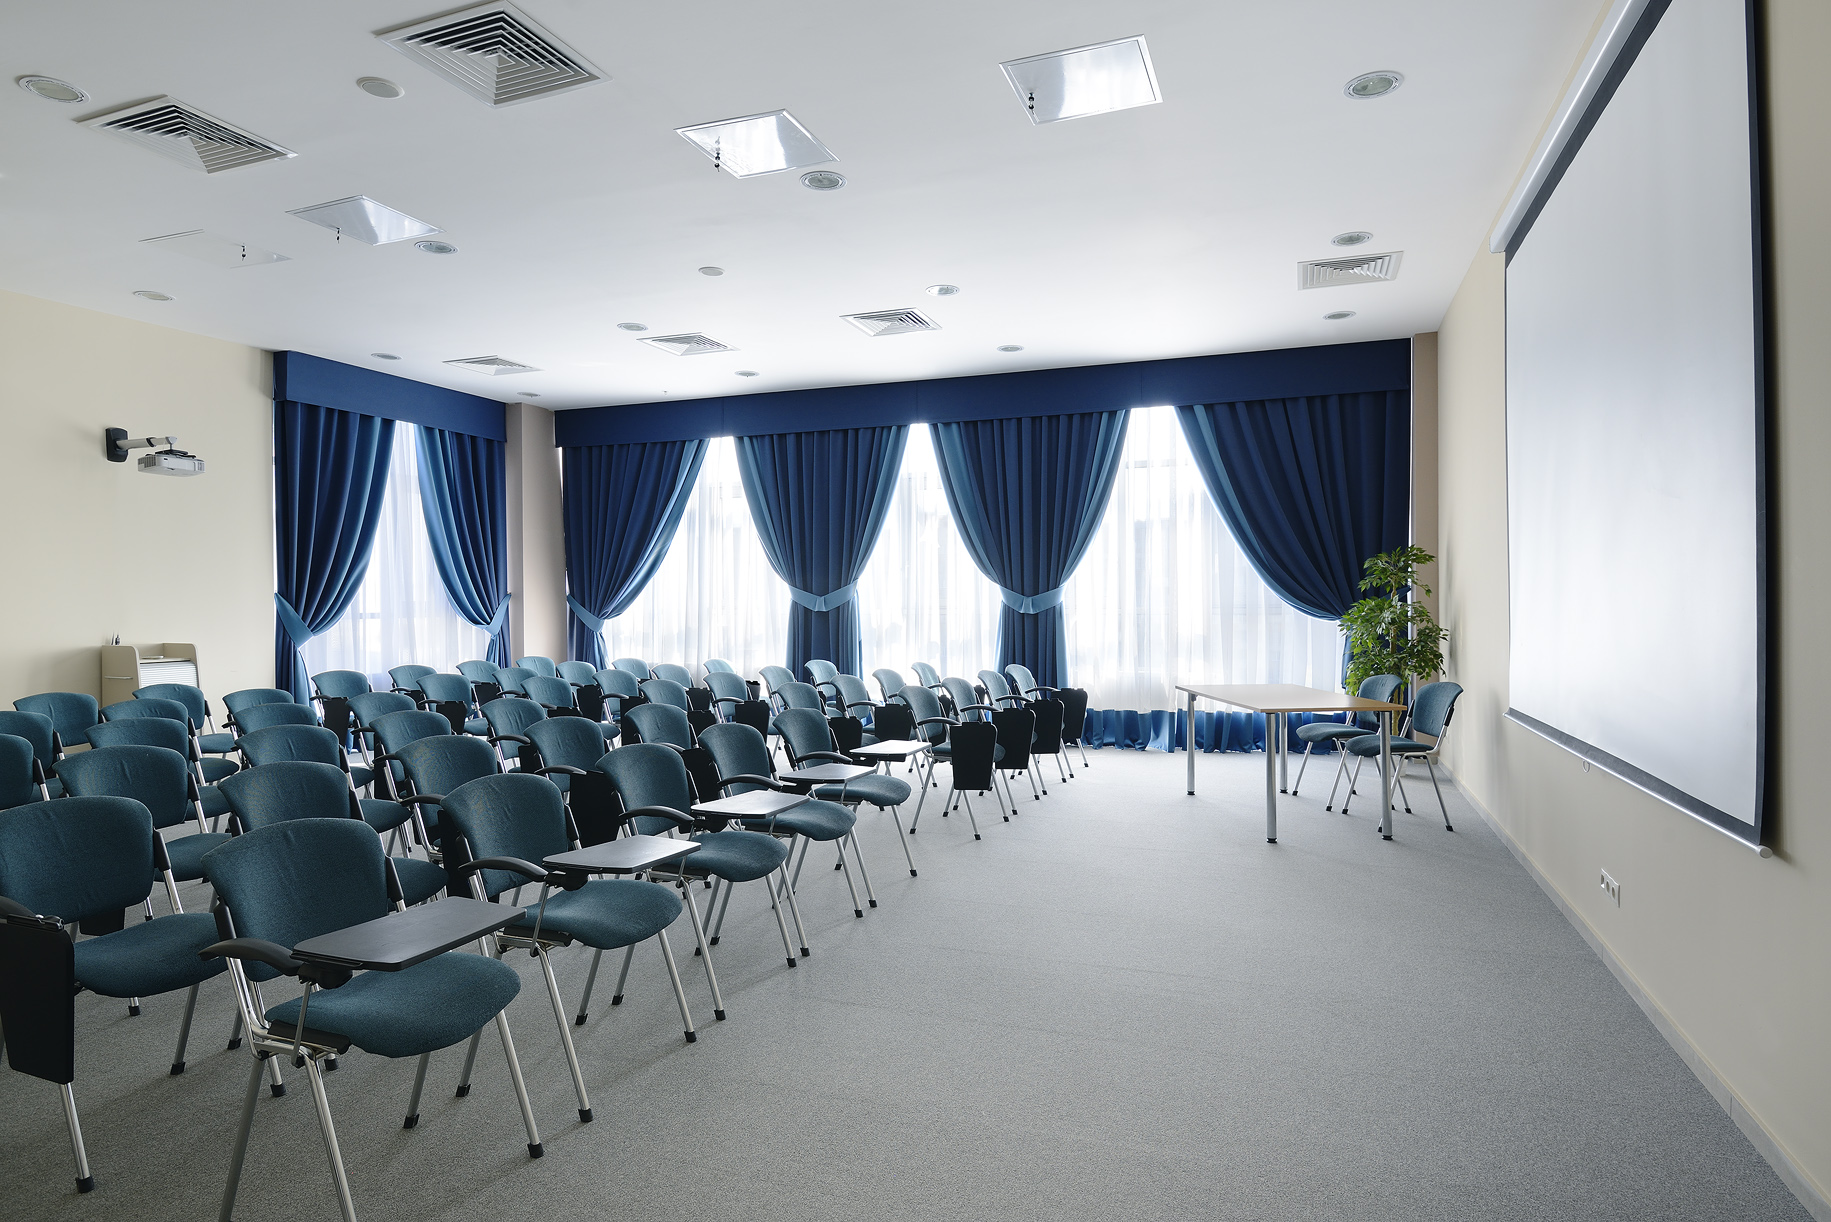
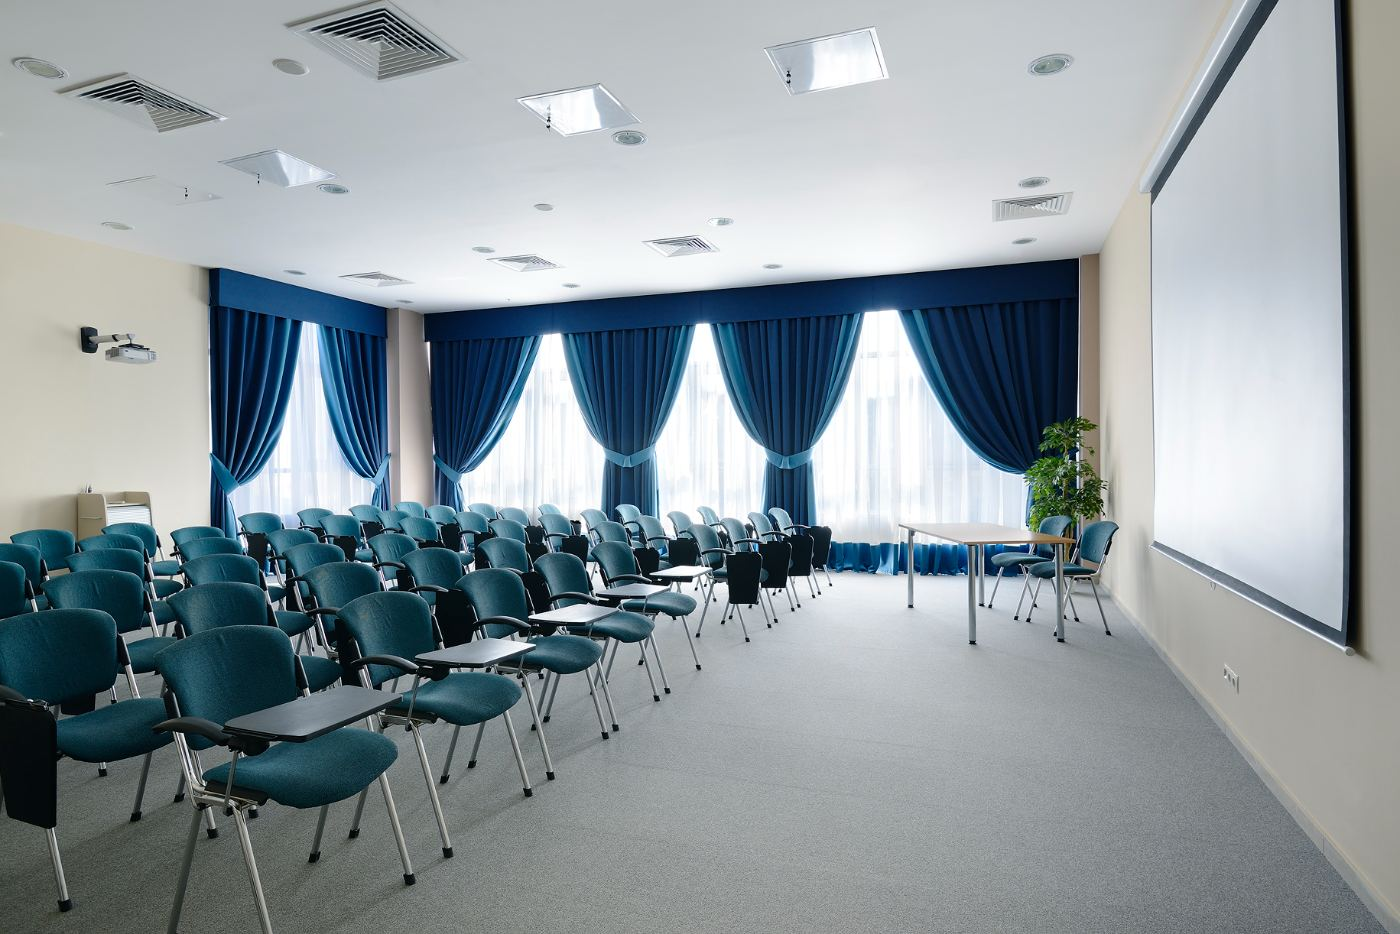
perf: compress oversized photos, size the hero slider in CSS, fix gallery link
Measured with a mobile profile (375x812, 4x CPU, 9 Mbps / 150 ms, cold cache), original vs this
branch, paired runs on the home page: transfer 3,271 KB -> 1,542 KB (-53%), 46 -> 40 requests,
layout shift 0.519 -> 0.000. LCP moved 13.6 s -> 12.0 s on a busy machine and is still several
seconds, so the case study should not claim "optimised load performance".

- re-encode the seven largest JPEGs (palace 1.2 MB, wash 836 KB, conference 824 KB, room,
  swarn, sawrna, slider and background images), long edge capped at 1400 px, quality 0.78
- add width/height and loading="lazy" to the below-the-fold gallery images
- size the hero slider images in CSS so the slider script no longer moves the hero after load
- fix the lightbox link ./Swarn.jpg -> ./swarn.jpg (404 on case-sensitive hosting)

diff --git a/index.html b/index.html
@@ -310,32 +310,32 @@
 				<div class="row">
 					<div class="col-sm-12 col-md-4 col-lg-4">
 						<a class="lightbox" href="./conference.jpg">
-							<img class="img-fluid" src="./conference.jpg" alt="Gallery Images">
+							<img class="img-fluid" src="./conference.jpg" width="1400" height="934" alt="Gallery Images" loading="lazy" decoding="async">
 						</a>
 					</div>
 					<div class="col-sm-6 col-md-4 col-lg-4">
 						<a class="lightbox" href="./g dine.jpg">
-							<img class="img-fluid" src="./g dine.jpg" alt="Gallery Images">
+							<img class="img-fluid" src="./g dine.jpg" alt="Gallery Images" loading="lazy" decoding="async">
 						</a>
 					</div>
 					<div class="col-sm-6 col-md-4 col-lg-4">
 						<a class="lightbox" href="./room.jpg">
-							<img class="img-fluid" src="./room.jpg" alt="Gallery Images">
+							<img class="img-fluid" src="./room.jpg" width="640" height="425" alt="Gallery Images" loading="lazy" decoding="async">
 						</a>
 					</div>
 					<div class="col-sm-6 col-md-4 col-lg-4">
 						<a class="lightbox" href="./meet.jpg">
-							<img class="img-fluid" src="./meet.jpg" alt="Gallery Images">
+							<img class="img-fluid" src="./meet.jpg" alt="Gallery Images" loading="lazy" decoding="async">
 						</a>
 					</div>
 					<div class="col-sm-6 col-md-4 col-lg-4">
 						<a class="lightbox" href="./dine.jpg">
-							<img class="img-fluid" src="./dine.jpg" alt="Gallery Images">
+							<img class="img-fluid" src="./dine.jpg" width="700" height="480" alt="Gallery Images" loading="lazy" decoding="async">
 						</a>
 					</div>
 					<div class="col-sm-12 col-md-4 col-lg-4">
-						<a class="lightbox" href="./Swarn.jpg">
-							<img class="img-fluid" src="./swarn.jpg" alt="Gallery Images">
+						<a class="lightbox" href="./swarn.jpg">
+							<img class="img-fluid" src="./swarn.jpg" width="1400" height="938" alt="Gallery Images" loading="lazy" decoding="async">
 						</a>
 					</div>
 				</div>

diff --git a/css/custom.css b/css/custom.css
@@ -1,2 +1,12 @@
 
 /** ADD YOUR AWESOME CODES HERE **/
+/* The hero slider script resized every slide image after it loaded, which moved the whole hero
+   (layout shift 0.52 on mobile). Size the images in CSS so the script has nothing left to move. */
+#slides .slides-container img {
+	width: 100% !important;
+	height: 100% !important;
+	object-fit: cover;
+	margin: 0 !important;
+	left: 0 !important;
+	top: 0 !important;
+}
